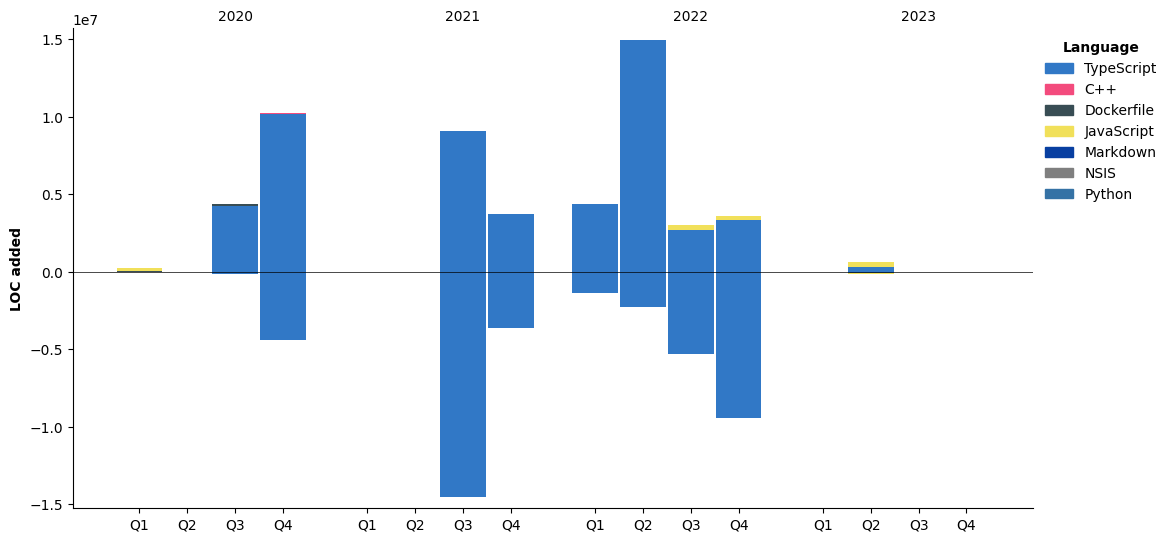
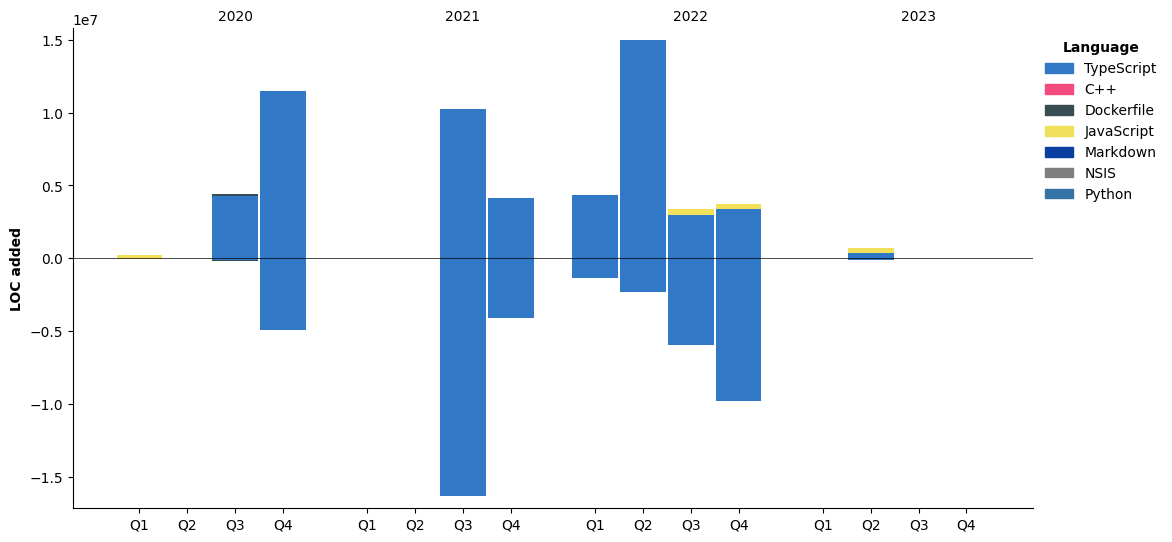
Updated with Dev Metrics

diff --git a/README.md b/README.md
@@ -169,74 +169,75 @@ Find me answering community coding questions in [The Coding Den](https://discord
 <br/>
 
 <!--START_SECTION:waka-->
+**🐱 My GitHub Data** 
 
-**🐱 My GitHub Data**
-
-> 📦 869.2 kB Used in GitHub's Storage
->
+> 📦 869.5 kB Used in GitHub's Storage 
+ > 
 > 🏆 215 Contributions in the Year 2023
->
+ > 
 > 💼 Opted to Hire
->
-> 📜 21 Public Repositories
->
-> 🔑 6 Private Repositories
->
-> **I'm an Early 🐤**
+ > 
+> 📜 21 Public Repositories 
+ > 
+> 🔑 6 Private Repositories 
+ > 
+**I'm an Early 🐤** 
 
 ```text
-🌞 Morning                844 commits         ⣿⣿⣿⣀⣀⣀⣀⣀⣀⣀⣀⣀⣀⣀⣀⣀⣀⣀⣀⣀⣀⣀⣀⣀⣀   10.80 %
-🌆 Daytime                3771 commits        ⣿⣿⣿⣿⣿⣿⣿⣿⣿⣿⣿⣿⣀⣀⣀⣀⣀⣀⣀⣀⣀⣀⣀⣀⣀   48.27 %
-🌃 Evening                1577 commits        ⣿⣿⣿⣿⣿⣀⣀⣀⣀⣀⣀⣀⣀⣀⣀⣀⣀⣀⣀⣀⣀⣀⣀⣀⣀   20.19 %
-🌙 Night                  1620 commits        ⣿⣿⣿⣿⣿⣀⣀⣀⣀⣀⣀⣀⣀⣀⣀⣀⣀⣀⣀⣀⣀⣀⣀⣀⣀   20.74 %
+🌞 Morning                865 commits         ⣿⣿⣿⣀⣀⣀⣀⣀⣀⣀⣀⣀⣀⣀⣀⣀⣀⣀⣀⣀⣀⣀⣀⣀⣀   10.68 % 
+🌆 Daytime                3993 commits        ⣿⣿⣿⣿⣿⣿⣿⣿⣿⣿⣿⣿⣀⣀⣀⣀⣀⣀⣀⣀⣀⣀⣀⣀⣀   49.30 % 
+🌃 Evening                1596 commits        ⣿⣿⣿⣿⣿⣀⣀⣀⣀⣀⣀⣀⣀⣀⣀⣀⣀⣀⣀⣀⣀⣀⣀⣀⣀   19.70 % 
+🌙 Night                  1646 commits        ⣿⣿⣿⣿⣿⣀⣀⣀⣀⣀⣀⣀⣀⣀⣀⣀⣀⣀⣀⣀⣀⣀⣀⣀⣀   20.32 % 
 ```
-
-📅 **I'm Most Productive on Wednesday**
+📅 **I'm Most Productive on Wednesday** 
 
 ```text
-Monday                   1103 commits        ⣿⣿⣿⣿⣀⣀⣀⣀⣀⣀⣀⣀⣀⣀⣀⣀⣀⣀⣀⣀⣀⣀⣀⣀⣀   14.12 %
-Tuesday                  792 commits         ⣿⣿⣿⣀⣀⣀⣀⣀⣀⣀⣀⣀⣀⣀⣀⣀⣀⣀⣀⣀⣀⣀⣀⣀⣀   10.14 %
-Wednesday                2546 commits        ⣿⣿⣿⣿⣿⣿⣿⣿⣀⣀⣀⣀⣀⣀⣀⣀⣀⣀⣀⣀⣀⣀⣀⣀⣀   32.59 %
-Thursday                 1717 commits        ⣿⣿⣿⣿⣿⣀⣀⣀⣀⣀⣀⣀⣀⣀⣀⣀⣀⣀⣀⣀⣀⣀⣀⣀⣀   21.98 %
-Friday                   512 commits         ⣿⣿⣀⣀⣀⣀⣀⣀⣀⣀⣀⣀⣀⣀⣀⣀⣀⣀⣀⣀⣀⣀⣀⣀⣀   06.55 %
-Saturday                 541 commits         ⣿⣿⣀⣀⣀⣀⣀⣀⣀⣀⣀⣀⣀⣀⣀⣀⣀⣀⣀⣀⣀⣀⣀⣀⣀   06.93 %
-Sunday                   601 commits         ⣿⣿⣀⣀⣀⣀⣀⣀⣀⣀⣀⣀⣀⣀⣀⣀⣀⣀⣀⣀⣀⣀⣀⣀⣀   07.69 %
+Monday                   1114 commits        ⣿⣿⣿⣀⣀⣀⣀⣀⣀⣀⣀⣀⣀⣀⣀⣀⣀⣀⣀⣀⣀⣀⣀⣀⣀   13.75 % 
+Tuesday                  807 commits         ⣿⣿⣀⣀⣀⣀⣀⣀⣀⣀⣀⣀⣀⣀⣀⣀⣀⣀⣀⣀⣀⣀⣀⣀⣀   09.96 % 
+Wednesday                2760 commits        ⣿⣿⣿⣿⣿⣿⣿⣿⣿⣀⣀⣀⣀⣀⣀⣀⣀⣀⣀⣀⣀⣀⣀⣀⣀   34.07 % 
+Thursday                 1729 commits        ⣿⣿⣿⣿⣿⣀⣀⣀⣀⣀⣀⣀⣀⣀⣀⣀⣀⣀⣀⣀⣀⣀⣀⣀⣀   21.35 % 
+Friday                   527 commits         ⣿⣿⣀⣀⣀⣀⣀⣀⣀⣀⣀⣀⣀⣀⣀⣀⣀⣀⣀⣀⣀⣀⣀⣀⣀   06.51 % 
+Saturday                 550 commits         ⣿⣿⣀⣀⣀⣀⣀⣀⣀⣀⣀⣀⣀⣀⣀⣀⣀⣀⣀⣀⣀⣀⣀⣀⣀   06.79 % 
+Sunday                   613 commits         ⣿⣿⣀⣀⣀⣀⣀⣀⣀⣀⣀⣀⣀⣀⣀⣀⣀⣀⣀⣀⣀⣀⣀⣀⣀   07.57 % 
 ```
 
-📊 **This Week I Spent My Time On**
+
+📊 **This Week I Spent My Time On** 
 
 ```text
 🕑 Time Zone: Europe/London
 
-💬 Programming Languages:
+💬 Programming Languages: 
 No Activity Tracked This Week
 
-🔥 Editors:
+🔥 Editors: 
 No Activity Tracked This Week
 
-🐱💻 Projects:
+🐱💻 Projects: 
 No Activity Tracked This Week
 
-💻 Operating System:
+💻 Operating System: 
 No Activity Tracked This Week
 ```
 
-**I Mostly Code in TypeScript**
+**I Mostly Code in TypeScript** 
 
 ```text
-TypeScript               18 repos            ⣿⣿⣿⣿⣿⣿⣿⣿⣿⣿⣿⣿⣿⣀⣀⣀⣀⣀⣀⣀⣀⣀⣀⣀⣀   51.43 %
-JavaScript               7 repos             ⣿⣿⣿⣿⣿⣀⣀⣀⣀⣀⣀⣀⣀⣀⣀⣀⣀⣀⣀⣀⣀⣀⣀⣀⣀   20.00 %
-PHP                      2 repos             ⣿⣀⣀⣀⣀⣀⣀⣀⣀⣀⣀⣀⣀⣀⣀⣀⣀⣀⣀⣀⣀⣀⣀⣀⣀   05.71 %
-Markdown                 1 repo              ⣿⣀⣀⣀⣀⣀⣀⣀⣀⣀⣀⣀⣀⣀⣀⣀⣀⣀⣀⣀⣀⣀⣀⣀⣀   02.86 %
-C++                      1 repo              ⣿⣀⣀⣀⣀⣀⣀⣀⣀⣀⣀⣀⣀⣀⣀⣀⣀⣀⣀⣀⣀⣀⣀⣀⣀   02.86 %
+TypeScript               18 repos            ⣿⣿⣿⣿⣿⣿⣿⣿⣿⣿⣿⣿⣿⣀⣀⣀⣀⣀⣀⣀⣀⣀⣀⣀⣀   51.43 % 
+JavaScript               7 repos             ⣿⣿⣿⣿⣿⣀⣀⣀⣀⣀⣀⣀⣀⣀⣀⣀⣀⣀⣀⣀⣀⣀⣀⣀⣀   20.00 % 
+PHP                      2 repos             ⣿⣀⣀⣀⣀⣀⣀⣀⣀⣀⣀⣀⣀⣀⣀⣀⣀⣀⣀⣀⣀⣀⣀⣀⣀   05.71 % 
+Markdown                 1 repo              ⣿⣀⣀⣀⣀⣀⣀⣀⣀⣀⣀⣀⣀⣀⣀⣀⣀⣀⣀⣀⣀⣀⣀⣀⣀   02.86 % 
+C++                      1 repo              ⣿⣀⣀⣀⣀⣀⣀⣀⣀⣀⣀⣀⣀⣀⣀⣀⣀⣀⣀⣀⣀⣀⣀⣀⣀   02.86 % 
 ```
+
+
 
 **Timeline**
 
 ![Lines of Code chart](https://raw.githubusercontent.com/TGTGamer/TGTGamer/master/assets/bar_graph.png)
 
-Last Updated on 27/04/2023 18:46:52 UTC
 
+ Last Updated on 28/04/2023 18:47:08 UTC
 <!--END_SECTION:waka-->
 
 <br/>
